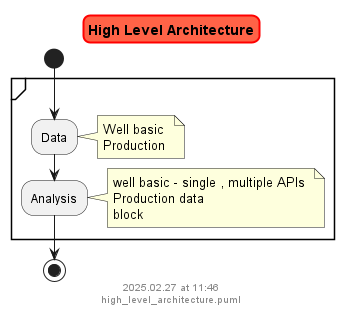
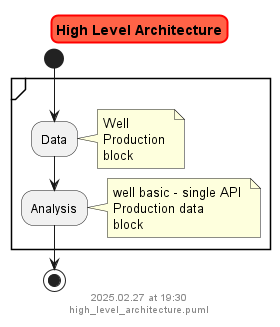
get block data

Changed region(s): [[0.0286, 0.0284, 1.0, 0.9085], [0.2286, 0.8801, 0.7429, 0.9653]]

diff --git a/src/energydata/modules/bsee/data/production_data.py b/src/energydata/modules/bsee/data/production_data.py
@@ -1,7 +1,8 @@
 import os
 from copy import deepcopy
 
-from energydata.modules.bsee.analysis.scrapy_for_block import ScrapyRunnerBlock
+import pandas as pd
+
 from energydata.modules.bsee.data.scrapy_production_data import ScrapyRunnerProduction
 from energydata.modules.bsee.data.production_data_from_zip import GetWellProdDataFromZip
 
@@ -17,22 +18,45 @@ class ProductionDataWebsite:
     def get_data(self, cfg):
 
         cfg = self.get_all_data(cfg)
-        production_data_groups = []
-        for group in cfg[cfg['basename']]['production_data']['groups']:
-            production_data_group = group.copy()
+        well_data_groups = []
+        for group in cfg[cfg['basename']]['well_data']['groups']:
+            well_data_group = group.copy()
             api12_array = group['api12']
-            api12_array_well_data = []
+            block_array_well_data = []
             for api12 in api12_array:
                 api12_df =  production_from_zip.get_production_data_by_wellapi12(cfg)
 
-            production_data_group.update({'api12_df': api12_df})
+            well_data_group.update({'api12_df': api12_df})
 
-            api12_array_well_data.append(production_data_group)
+            block_array_well_data.append(well_data_group)
 
-        production_data_groups.append(api12_array_well_data)
+        well_data_groups.append(block_array_well_data)
 
-        return cfg, production_data_groups
+        return cfg, well_data_groups
+    
+    def get_data_for_block(self, cfg):
 
+        cfg = self.get_all_data(cfg)
+        well_data_groups = []
+        for group in cfg[cfg['basename']]['well_data']['groups']:
+            well_data_group = group.copy()
+            block_array = group['bottom_block']
+            block_array_well_data = []
+            for block in block_array:
+                block_df = self.get_block_df(group)
+
+            well_data_group.update({'block_df': block_df})
+
+            block_array_well_data.append(well_data_group)
+
+        well_data_groups.append(block_array_well_data)
+
+        return cfg, well_data_groups
+    
+    def get_block_df(self, group):
+
+        block_data = pd.read_csv(group['file_name'])
+        return block_data
 
     def get_all_data(self, cfg):
 
@@ -48,19 +72,10 @@ class ProductionDataWebsite:
             for input_item in input_items:
                 output_data = self.generate_output_item(cfg, output_data, input_item)
 
-        production_data = {'type': 'csv', 'groups': output_data}
-        cfg[cfg['basename']].update({'production_data': production_data})
+        well_data = {'type': 'csv', 'groups': output_data}
+        cfg[cfg['basename']].update({'well_data': well_data})
 
         return cfg
-
-    def get_block_data_from_website(self, cfg, output_data):
-        input_items = cfg['data']['groups']
-        scrapy_runner_block = ScrapyRunnerBlock()
-
-        for input_item in input_items:
-            block_data_from_website = scrapy_runner_block.run_spider(cfg, input_item)
-            output_data = self.generate_output_item(cfg, output_data, input_item)
-        return output_data
 
     def get_production_from_website(self, cfg, output_data):
         input_items = cfg['data']['groups']
@@ -74,6 +89,25 @@ class ProductionDataWebsite:
     def generate_output_item(self, cfg, output_data, input_item):
 
         label = input_item['api12'][0]
+        output_path = os.path.join(cfg['Analysis']['result_folder'], 'Data')
+        if output_path is None:
+            result_folder = cfg['Analysis']['result_folder']
+            output_path = os.path.join(result_folder, 'Data')
+
+        analysis_root_folder = cfg['Analysis']['analysis_root_folder']
+        is_dir_valid, output_path = is_dir_valid_func(output_path, analysis_root_folder)
+
+        output_file = os.path.join(output_path, str(label) + '.csv')
+
+        input_item_csv_cfg = deepcopy(input_item)
+        input_item_csv_cfg.update({'label': label, 'file_name': output_file})
+        output_data.append(input_item_csv_cfg)
+        
+        return output_data
+    
+    def generate_output_item_block(self, cfg, output_data, input_item):
+
+        label = input_item['bottom_block'][0]
         output_path = os.path.join(cfg['Analysis']['result_folder'], 'Data')
         if output_path is None:
             result_folder = cfg['Analysis']['result_folder']

diff --git a/src/energydata/modules/bsee/data/scrapy_block_data.py b/src/energydata/modules/bsee/data/scrapy_block_data.py
@@ -1,7 +1,8 @@
 # Standard library imports
-import logging  # noqa
+from loguru import logger # noqa
 import os  # noqa
 from io import BytesIO  # noqa
+import logging # noqa
 
 # Third party imports
 import pandas as pd  # noqa
@@ -36,13 +37,13 @@ class BSEESpider(scrapy.Spider):
         self.cfg = cfg
 
     def parse(self, response):
-        bottom_block_num = str(self.input_item['bottom_block'])
+        bottom_block_num = str(self.input_item['bottom_block'][0])
 
         first_request_data = self.cfg['data_retrieval']['block']['website']['form_data']['first_request'].copy()
         first_request_data['ASPxFormLayout1_ASPxComboBoxBBN_VI'] = bottom_block_num
         first_request_data['ASPxFormLayout1$ASPxComboBoxBBN'] = bottom_block_num
 
-        logging.info(f"Getting data for BLOCK {bottom_block_num} ... START")
+        logger.info(f"Getting data for BLOCK {bottom_block_num} ... START")
 
         yield FormRequest.from_response(response, formdata=first_request_data, callback=self.step2)
 
@@ -52,7 +53,7 @@ class BSEESpider(scrapy.Spider):
         else:
             print(f"{Fore.RED}Failed to submit the form data {Style.RESET_ALL}. Status code: {response.status}")
 
-        bottom_block_num = str(self.input_item['bottom_block'])
+        bottom_block_num = str(self.input_item['bottom_block'][0])
 
         second_request_data = self.cfg['data_retrieval']['block']['website']['form_data']['second_request'].copy()
         second_request_data['ASPxFormLayout1_ASPxComboBoxBBN_VI'] = bottom_block_num
@@ -62,7 +63,7 @@ class BSEESpider(scrapy.Spider):
 
     def parse_csv_data(self, response):
 
-        label = self.input_item['label']
+        label = self.input_item['bottom_block'][0]
         bottom_block = self.input_item['bottom_block']
         output_path = os.path.join(self.cfg['Analysis']['result_folder'], 'Data')
         if output_path is None:
@@ -82,9 +83,9 @@ class BSEESpider(scrapy.Spider):
             else:
                 with open(output_file, 'wb') as f:
                     f.write(response.body)
-                    logging.debug("\n****The Scraped data of given value ****\n")
-                    logging.debug(response_csv)
-                    logging.info(f"Getting data for BLOCK {bottom_block} ... COMPLETE")
+                    logger.debug("\n****The Scraped data of given value ****\n")
+                    logger.debug(response_csv)
+                    logger.info(f"Getting data for BLOCK {bottom_block} ... COMPLETE")
         else:
             print(f"{Fore.RED}Failed to export CSV file.{Style.RESET_ALL} Status code: {response.status}")
 

diff --git a/src/energydata/modules/bsee/data/block_data.py b/src/energydata/modules/bsee/data/block_data.py
@@ -1,0 +1,78 @@
+import os
+from copy import deepcopy
+
+import pandas as pd
+
+from energydata.modules.bsee.data.scrapy_block_data import ScrapyRunnerBlock
+
+from assetutilities.common.utilities import is_dir_valid_func
+
+
+class BlockDataWebsite:
+    
+    def __init__(self):
+        pass
+    
+    def get_data(self, cfg):
+
+        cfg = self.get_all_data(cfg)
+        well_data_groups = []
+        for group in cfg[cfg['basename']]['well_data']['groups']:
+            well_data_group = group.copy()
+            block_array = group['bottom_block']
+            block_array_well_data = []
+            for block in block_array:
+                block_df = self.get_block_df(group)
+
+            well_data_group.update({'block_df': block_df})
+
+            block_array_well_data.append(well_data_group)
+
+        well_data_groups.append(block_array_well_data)
+
+        return cfg, well_data_groups
+    
+    def get_block_df(self, group):
+
+        block_data = pd.read_csv(group['file_name'])
+        return block_data
+
+    def get_all_data(self, cfg):
+
+        output_data = []
+
+        if "block_data" in cfg and cfg['block_data']['flag']:
+            output_data = self.get_block_data_from_website(cfg, output_data)
+
+        well_data = {'type': 'csv', 'groups': output_data}
+        cfg[cfg['basename']].update({'well_data': well_data})
+
+        return cfg
+
+    def get_block_data_from_website(self, cfg, output_data):
+        input_items = cfg['data']['groups']
+        scrapy_runner_block = ScrapyRunnerBlock()
+
+        for input_item in input_items:
+            block_data_from_website = scrapy_runner_block.run_spider(cfg, input_item)
+            output_data = self.generate_output_item(cfg, output_data, input_item)
+        return output_data
+    
+    def generate_output_item(self, cfg, output_data, input_item):
+
+        label = input_item['bottom_block'][0]
+        output_path = os.path.join(cfg['Analysis']['result_folder'], 'Data')
+        if output_path is None:
+            result_folder = cfg['Analysis']['result_folder']
+            output_path = os.path.join(result_folder, 'Data')
+
+        analysis_root_folder = cfg['Analysis']['analysis_root_folder']
+        is_dir_valid, output_path = is_dir_valid_func(output_path, analysis_root_folder)
+
+        output_file = os.path.join(output_path, str(label) + '.csv')
+
+        input_item_csv_cfg = deepcopy(input_item)
+        input_item_csv_cfg.update({'label': label, 'file_name': output_file})
+        output_data.append(input_item_csv_cfg)
+        
+        return output_data

diff --git a/src/energydata/modules/bsee/bsee.py b/src/energydata/modules/bsee/bsee.py
@@ -4,13 +4,15 @@ from assetutilities.common.update_deep import update_deep_dictionary #noqa
 from energydata.modules.bsee.data.production_data_from_zip import GetWellProdDataFromZip
 #from energydata.modules.bsee.data.production_data_from_website import GetWellProdDataFromWebsite
 from energydata.modules.bsee.data.well_data import WellData
-from energydata.modules.bsee.analysis.production_data import ProductionDataWebsite
+from energydata.modules.bsee.data.production_data import ProductionDataWebsite
+from energydata.modules.bsee.data.block_data import BlockDataWebsite
 from energydata.modules.bsee.analysis.prepare_data_for_analysis import PrepareBseeData
 from energydata.modules.bsee.data.scrapy_production_data import SpiderBsee
 from energydata.modules.bsee.analysis.bsee_analysis import BSEEAnalysis
 
 # Initialize instances of imported classes
 production_from_website = ProductionDataWebsite()
+block_data_website = BlockDataWebsite()
 bsee_production = SpiderBsee()
 well_data = WellData()
 #production_data = GetWellProdDataFromWebsite()
@@ -28,12 +30,15 @@ class bsee:
         cfg = self.get_cfg_with_master_data(cfg)
         
         cfg[cfg['basename']] = {}
-        if 'well_data' in cfg and cfg['well_data']['flag'] or 'block_data' in cfg and cfg['block_data']['flag']:
+        if 'well_data' in cfg and cfg['well_data']['flag'] :
             cfg, well_data_groups  = well_data.get_well_data_all_wells(cfg)
         
         if 'production' in cfg and cfg['production']['flag'] or \
           'well_production' in cfg and cfg['well_production']['flag']:
             cfg, well_data_groups = production_from_website.get_data(cfg)
+        
+        elif 'block_data' in cfg and cfg['block_data']['flag']:
+            cfg, well_data_groups = block_data_website.get_data(cfg)
 
         if 'analysis' in cfg and cfg['analysis']['flag']:
             cfg = bsee_analysis.router(cfg, well_data_groups)

diff --git a/src/energydata/modules/bsee/data/well_data.py b/src/energydata/modules/bsee/data/well_data.py
@@ -2,8 +2,7 @@ import os
 import pandas as pd
 from copy import deepcopy
 
-from energydata.modules.bsee.analysis.scrapy_for_block import ScrapyRunnerBlock
-from energydata.modules.bsee.data.scrapy_for_API import  ScrapyRunnerAPI
+from energydata.modules.bsee.data.scrapy_well_data import  ScrapyRunnerAPI
 
 from assetutilities.common.utilities import is_dir_valid_func
 
@@ -81,17 +80,6 @@ class WellData:
             output_data = self.generate_output_item(cfg, output_data, input_item)
 
         return output_data, api12_data
-
-    def get_well_data_by_block(self, cfg, output_data):
-        input_items = cfg['data']['groups']
-        scrapy_runner_block = ScrapyRunnerBlock()
-
-        for input_item in input_items:
-
-            block_data = scrapy_runner_block.run_spider(cfg, input_item)
-            output_data = self.generate_output_item(cfg, output_data, input_item)
-
-        return output_data, block_data
 
     def generate_output_item(self, cfg, output_data, input_item):
 

diff --git a/tests/modules/bsee/analysis/test_quickfire.py b/tests/modules/bsee/analysis/test_quickfire.py
@@ -30,7 +30,11 @@ def test_application():
 
     # Well Production Tests
     # input_file = 'query_api_01_wells_production.yml'
-    input_file = 'query_api_01_production_basic.yml'
+    
+    #input_file = 'query_api_01_production_basic.yml'
+
+    input_file = 'query_api_01_block_basic.yml'
+
 
     # All well data
     # input_file = 'query_blk_julia.yml'

diff --git a/docs/modules/bsee/analysis/analysis_guide.md b/docs/modules/bsee/analysis/analysis_guide.md
@@ -1,25 +1,12 @@
-### Well data 
+### Well , Production and block data
 
-Well basic analysis for single and multiple well apis:
-
-Gathering_data:
-
-  Initially gets the well data from website
-
-  Create groups in cfg and store required data ( api12 file_name , borehole_apd dataframes, api12 df) for analysis in cfg 
-
-Analysis:
-   Pass all data to analysis class and play with it.
-
-### Production data
-
-Well basic analysis for single and multiple well apis:
+basic analysis for single and multiple well apis:
 
 Gathering_data:
 
-  Initially gets the production data from zip files
+  Initially gets the data from respective website
 
-  Create groups in cfg and store required data ( api12 file_name , api12 df) for analysis in cfg 
+  Create groups in cfg and store required data ( files , dfs) for analysis in cfg 
 
 Analysis:
    Pass all data to analysis class and play with it.
